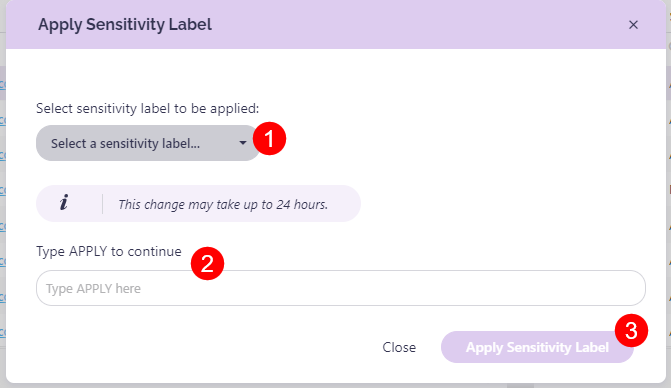
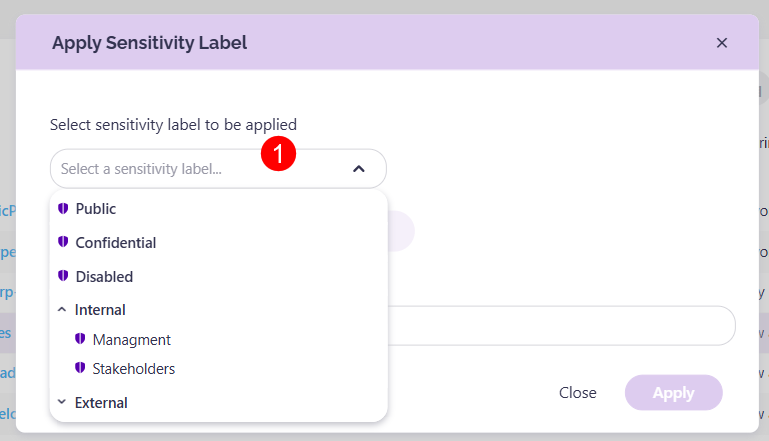
sens. label apply update

diff --git a/governance-and-automation/manage-sensitivity-labels.md b/governance-and-automation/manage-sensitivity-labels.md
@@ -30,7 +30,9 @@ To apply a sensitivity label to the workspace:
   * **Type APPLY (2)** in the designated space.
   * **Click Apply Sensitivity Label (3)** to finalize.
 
-![Apply Sensitivity Labels - Overview](../.gitbook/assets/manage-sensitivity-labels-apply-label.png)
+![Apply Sensitivity Labels - Selection](../.gitbook/assets/manage-sensitivity-labels-apply-label.png)
+
+![Apply Sensitivity Labels - Overview](../.gitbook/assets/manage-sensitivity-labels-apply-label-confirm.png)
 
 Clicking Remove Sensitivity Label opens the Remove Sensitivity Label pop-up.
   * To remove the sensitivity label **type REMOVE (1)** in the designated space.
